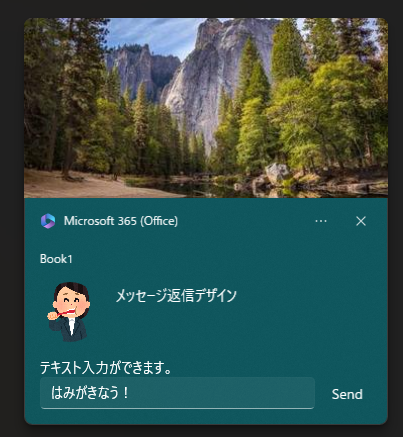
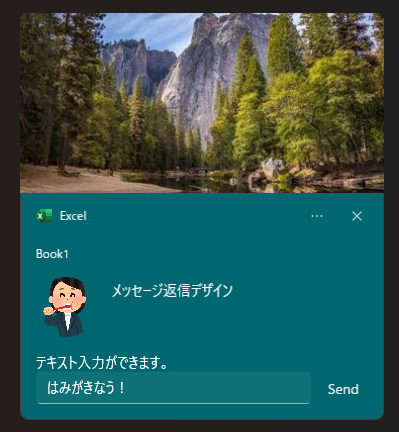
AllowUse_InternetImage　の挙動修正に伴い、画像も変更

diff --git a/README.md b/README.md
@@ -91,46 +91,45 @@ End Sub
 ## AppUserModelID 関連
 ### AllowUse_InternetImage
 HTTP上の画像ソースを使うか決めます。<br>
-実際は、プリセットのOffice系AppUserModelIDを切り替えます。<br>
-これは、[マニフェストにインターネット機能があるパッケージ アプリ](https://learn.microsoft.com/ja-jp/windows/apps/design/shell/tiles-and-notifications/send-local-toast?tabs=uwp#:~:text=%E3%81%A8%E3%81%97%E3%81%BE%E3%81%99%E3%80%82-,%E9%87%8D%E8%A6%81,-HTTP%20%E3%82%A4%E3%83%A1%E3%83%BC%E3%82%B8%E3%81%AF)(主にStore アプリ)でないと、HTTP上の画像ソースが使えない制限があるためです。
-
-#### 設定値
-| 値            | 設定するAppUserModelID                                                                          | 
-| ------------- | ------------------------------------------------------------------------------- | 
-| True          | ![alt text](doc/Ex_AppUserModelID1-1.png)<br>Microsoft.MicrosoftOfficeHub_8wekyb3d8bbwe!Microsoft.MicrosoftOfficeHub | 
-| False(規定値) | ![Excel app](doc/Ex_AppUserModelID1-2.png)<br>Microsoft.Office.EXCEL.EXE.15                                           | 
-
-True の方を使用する場合は、[こちらから](https://www.microsoft.com/store/productId/9WZDNCRD29V9?ocid=pdpshare)インストールを行って下さい。<br>
-既定値、記述なしは、Falseです。
-
-#### サンプルコード
+例えば以下の設定で通知を表示させる際……<br>
 ```bas
-Sub TestAllowUse_InternetImage()
-    Dim ActionCmd as String
-
+Sub httpソースの画像付き通知()
     With New cls_AppNotificationBuilder
-        '切り替え
-        .AllowUse_InternetImage = True
+        .SetToastContent_TextTitle = "上部に画像を表示"
+        .SetToastContent_ImageHero = "https://pad.gungho.jp/member/img/graphic/illust/6828.png"
 
 
-
-        'タイトル設定
-        .SetToastContent_TextTitle = "Microsoft 365から"
-
-        'コマンド文字列を生成(Windows PowerShell経由で実行する場合)
-        ActionCmd = .GenerateCmd_ToastNotifierShow("InternetImage")
-
-        '通知表示
-        .RunDll_ToastNotifierShow "InternetImage"
-        'Shell ActionCmd,vbHide
+        Shell .GenerateCmd_ToastNotifierShow("withImageToast"), vbHide
     End With
 End Sub
 ```
+次のような表示になり上手くいきません…<br>
+![alt text](doc/Ex_AppUserModelID1-1.png)<br>
+
+そこで、「.AllowUse_InternetImage = True」を加えると…
+```bas
+Sub httpソースの画像付き通知()
+    With New cls_AppNotificationBuilder
+        .AllowUse_InternetImage = True
+
+        .SetToastContent_TextTitle = "上部に画像を表示"
+        .SetToastContent_ImageHero = "https://pad.gungho.jp/member/img/graphic/illust/6828.png"
+
+
+        Shell .GenerateCmd_ToastNotifierShow("withImageToast"), vbHide
+    End With
+End Sub
+```
+正しく表示できます。<br>
+![alt text](doc/Ex_AppUserModelID1-2.png)<br>
+
+このHTTP上の画像ソースに関する詳しい挙動は、こちらを参照下さい。
 
 ### SetToastContent_AppUserModelID
 この通知をどのAppUserModelIDで出すかを設定します。<br>
 存在しない(未インストール)AppUserModelID、無効な文字列を指定すると、Toastが発行されないのでご注意ください。<br>
-このプロパティが設定されてると、AllowUse_InternetImageの設定より優先されます。
+指定したAppUserModelIDによっては、AllowUse_InternetImageの設定が効きません。<br>
+この仕様については、こちらを参照下さい
 
 #### 設定値
 Windows にインストールされているAppUserModelID
@@ -824,12 +823,12 @@ Input要素の配置順。1~5まで有効です。
 
 #### サンプルコード
 ```bas
-Sub メッセージ()
+Sub メッセ()
     Dim AppNotification As New cls_AppNotificationBuilder
     Dim ActionCmd As String
     
     With AppNotification
-        'テキスト入力要素を作成
+        'テキスト入力要素を作成("はみがきなう！"を除去すると、右のような画像になります)
         .SetIToastInput("textBox", , "reply", "テキスト入力ができます。", "はみがきなう！") = 1
 
 
